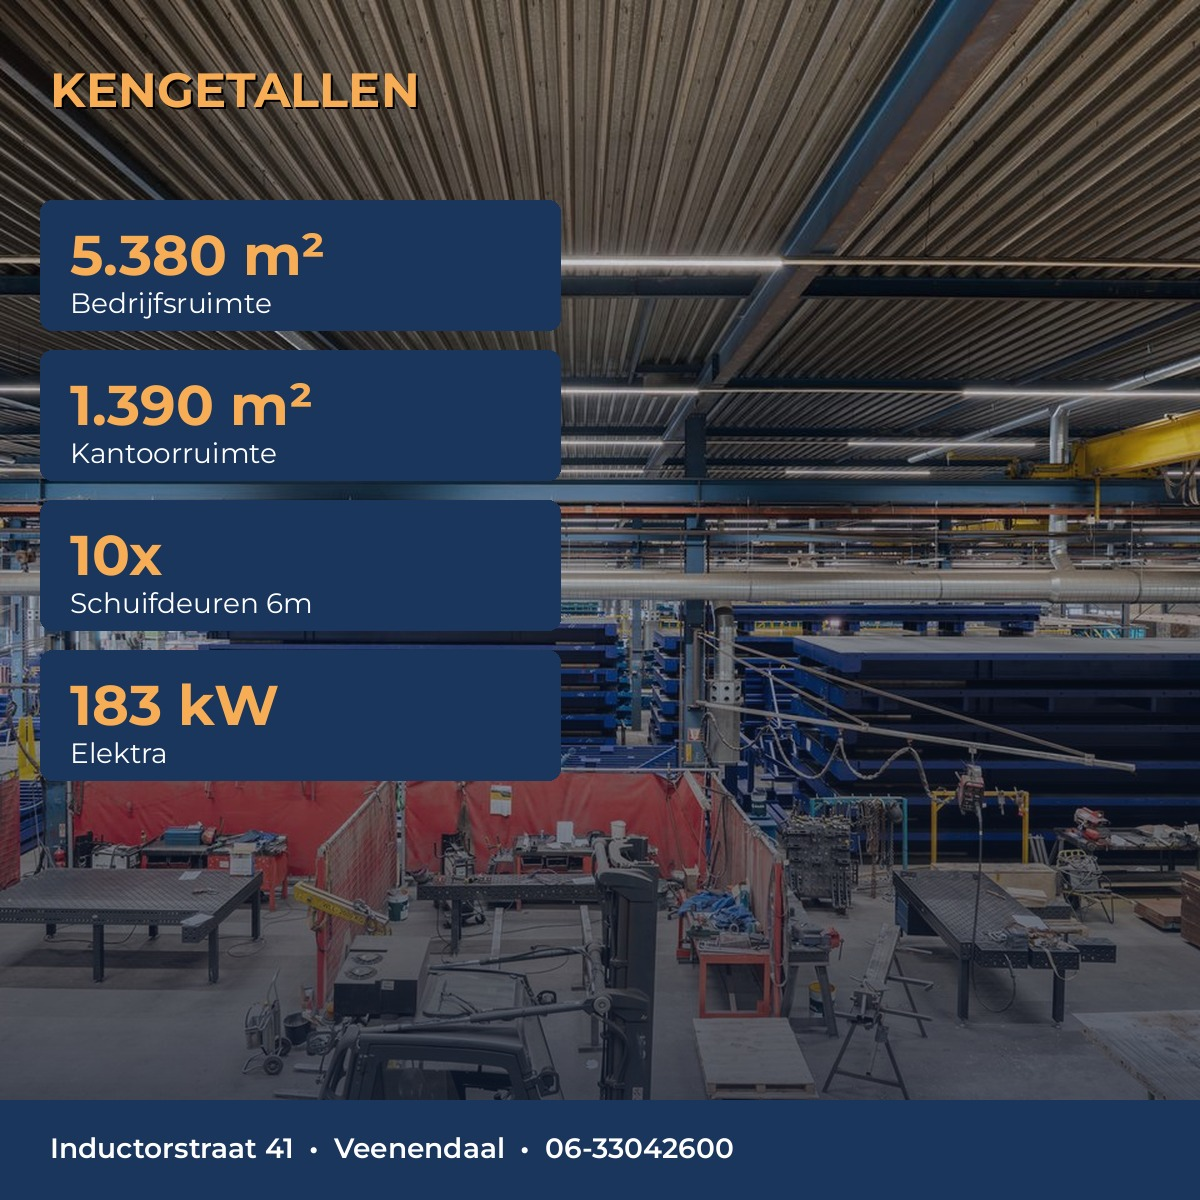
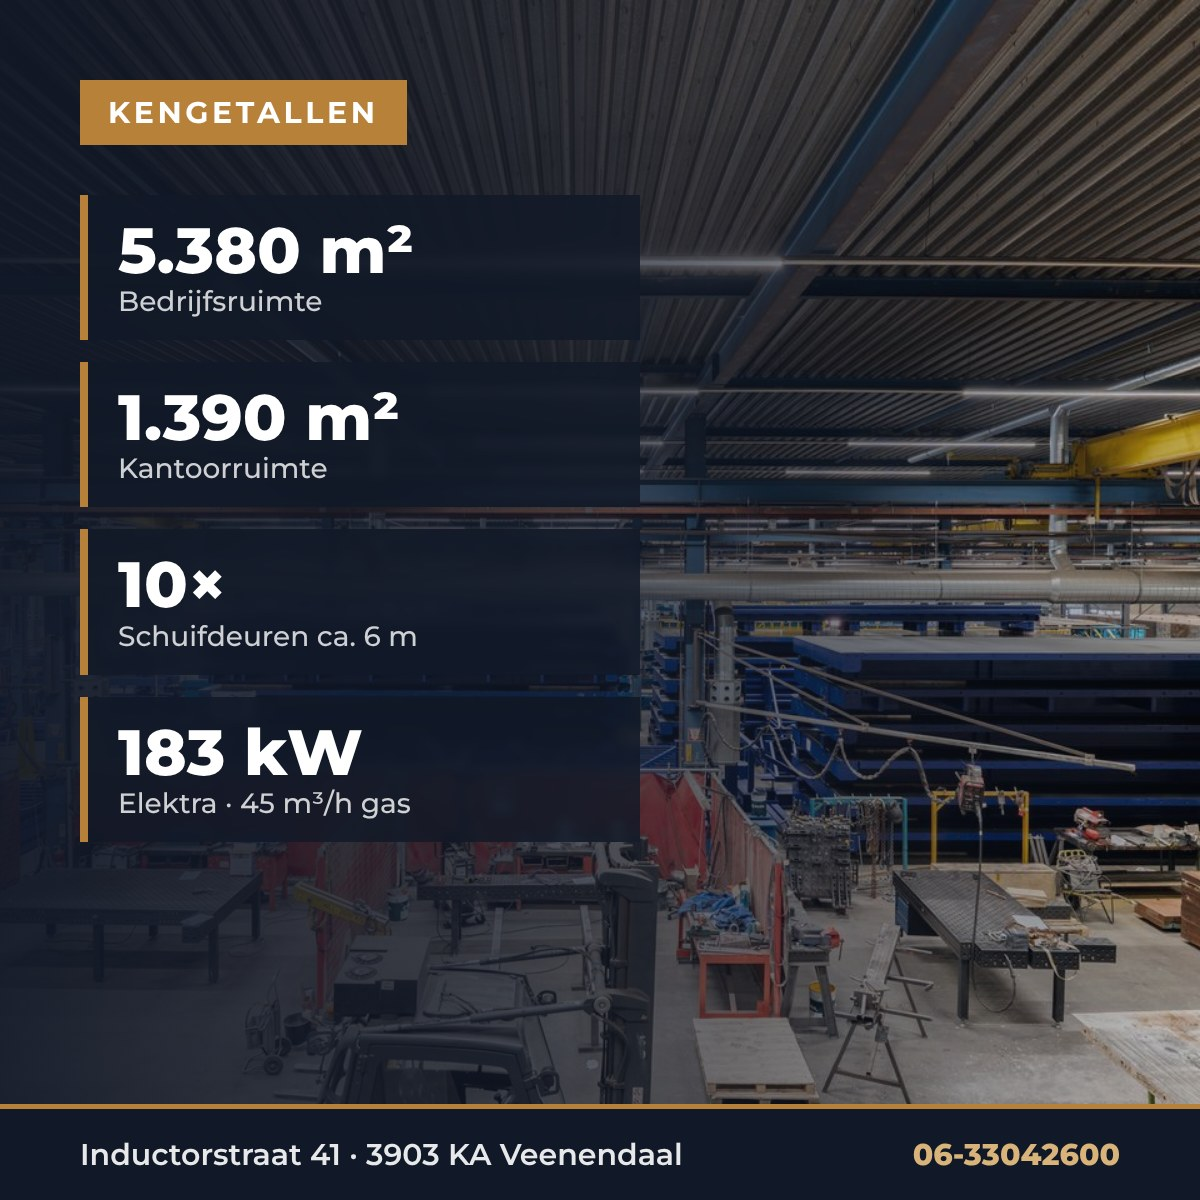
LinkedIn-designs in nieuwe huisstijl, lijn-iconen, video-download bovenaan LinkedIn-pagina, URL-hoofdletter hersteld
Claude-Session: https://claude.ai/code/session_01XDsUcyx6WeUYNECja3Ea1t

diff --git a/linkedin.html b/linkedin.html
@@ -27,6 +27,7 @@
     .back { color: rgba(255,255,255,0.85); font-size: 0.88rem; font-weight: 500; }
     .back:hover { color: var(--orange); }
 
+    .ico { flex-shrink: 0; }
     .btn { display: inline-flex; align-items: center; gap: 0.45rem; background: var(--orange); color: var(--on-accent); font-family: inherit; font-weight: 700; font-size: 0.85rem; padding: 0.55rem 1.1rem; border-radius: 6px; border: 2px solid var(--orange); cursor: pointer; transition: all 0.2s; }
     .btn:hover { background: var(--orange-dark); border-color: var(--orange-dark); }
     .btn-ghost { background: transparent; color: var(--navy); border-color: var(--line); }
@@ -41,6 +42,10 @@
     .hero .label { color: var(--orange); }
     .hero h1 { font-size: clamp(2rem, 4.5vw, 3rem); font-weight: 800; line-height: 1.15; letter-spacing: -0.02em; margin-bottom: 0.75rem; }
     .hero p { font-size: 1.05rem; opacity: 0.9; }
+    .hero-dl { display: flex; flex-wrap: wrap; gap: 0.75rem; margin-top: 1.75rem; }
+    .hero-dl .btn { font-size: 0.95rem; padding: 0.8rem 1.4rem; }
+    .btn-ghost-light { background: transparent; color: #fff; border-color: rgba(255,255,255,0.45); }
+    .btn-ghost-light:hover { background: #fff; color: var(--navy); border-color: #fff; }
     .toc { display: flex; flex-wrap: wrap; gap: 0.5rem; margin-top: 1.75rem; }
     .toc a { background: rgba(255,255,255,0.1); border: 1px solid rgba(255,255,255,0.25); color: #fff; padding: 0.4rem 0.9rem; border-radius: 999px; font-size: 0.82rem; font-weight: 600; }
     .toc a:hover { background: var(--orange); color: var(--on-accent); border-color: var(--orange); }
@@ -113,6 +118,10 @@
       <div class="label">LinkedIn promotie</div>
       <h1>Campagne Inductorstraat 41</h1>
       <p>Alles voor de LinkedIn-campagne op één plek: strategie, doelgroep, contentkalender, kant-en-klare posts met designs, de video en tips voor advertenties.</p>
+      <div class="hero-dl">
+        <a class="btn" href="video/promo.mp4" download="Inductorstraat_41_Veenendaal_promotievideo.mp4"><svg class="ico" width="20" height="20" viewBox="0 0 24 24" fill="none" stroke="currentColor" stroke-width="2" stroke-linecap="round" stroke-linejoin="round" aria-hidden="true"><rect x="3" y="3" width="18" height="18" rx="2"/><path d="M7 3v18M17 3v18M3 7.5h4M3 12h18M3 16.5h4M17 7.5h4M17 16.5h4"/></svg> Download de video (MP4)</a>
+        <button class="btn btn-ghost-light" type="button" onclick="document.getElementById('dl-all').click()"><svg class="ico" width="20" height="20" viewBox="0 0 24 24" fill="none" stroke="currentColor" stroke-width="2" stroke-linecap="round" stroke-linejoin="round" aria-hidden="true"><rect x="3" y="3" width="18" height="18" rx="2"/><circle cx="9" cy="9" r="2"/><path d="m21 15-3.09-3.09a2 2 0 0 0-2.82 0L6 21"/></svg> Download alle designs</button>
+      </div>
       <div class="toc">
         <a href="#strategie">Strategie</a>
         <a href="#doelgroep">Doelgroep</a>
@@ -200,7 +209,7 @@
         </video>
       </div>
       <div class="post-actions" style="margin-top: 1rem;">
-        <a class="btn" href="video/promo.mp4" download="Inductorstraat_41_Veenendaal_promotievideo.mp4">⬇ Download video (MP4, 5,4 MB)</a>
+        <a class="btn" href="video/promo.mp4" download="Inductorstraat_41_Veenendaal_promotievideo.mp4"><svg class="ico" width="18" height="18" viewBox="0 0 24 24" fill="none" stroke="currentColor" stroke-width="2" stroke-linecap="round" stroke-linejoin="round" aria-hidden="true"><path d="M21 15v4a2 2 0 0 1-2 2H5a2 2 0 0 1-2-2v-4"/><path d="m7 10 5 5 5-5"/><path d="M12 15V3"/></svg> Download video (MP4, 5,4 MB)</a>
       </div>
     </div>
   </section>
@@ -238,7 +247,7 @@
         <li>Gebruik de video in de eerste post: video’s presteren significant beter.</li>
         <li>Overweeg een “document post” met een korte PDF-factsheet, bijvoorbeeld de brochure.</li>
         <li>Herhaal de beste post na 10–14 dagen met iets aangepaste tekst.</li>
-        <li>Zet de websitelink in de eerste reactie: <strong>jeroen-o.github.io/inductorstraat-41</strong></li>
+        <li>Zet de websitelink in de eerste reactie: <strong>jeroen-o.github.io/Inductorstraat-41</strong></li>
       </ul>
     </div>
   </section>
@@ -249,11 +258,11 @@
       <div class="label">Downloads</div>
       <h2>Alle bestanden</h2>
       <div class="downloads">
-        <a class="btn btn-li" href="docs/LinkedIn_Campagne_Inductorstraat_41_Veenendaal.docx" download>⬇ Campagneplan (Word)</a>
-        <button class="btn" id="dl-all">⬇ Alle 6 designs</button>
-        <a class="btn btn-ghost" href="video/promo.mp4" download="Inductorstraat_41_Veenendaal_promotievideo.mp4">⬇ Video (MP4)</a>
-        <a class="btn btn-ghost" href="docs/brochure-inductorstraat-41.pdf" target="_blank" rel="noopener">⬇ Brochure (PDF)</a>
-        <button class="btn btn-ghost" id="copy-url">🔗 Kopieer websitelink</button>
+        <a class="btn btn-li" href="docs/LinkedIn_Campagne_Inductorstraat_41_Veenendaal.docx" download><svg class="ico" width="18" height="18" viewBox="0 0 24 24" fill="none" stroke="currentColor" stroke-width="2" stroke-linecap="round" stroke-linejoin="round" aria-hidden="true"><path d="M21 15v4a2 2 0 0 1-2 2H5a2 2 0 0 1-2-2v-4"/><path d="m7 10 5 5 5-5"/><path d="M12 15V3"/></svg> Campagneplan (Word)</a>
+        <button class="btn" id="dl-all"><svg class="ico" width="18" height="18" viewBox="0 0 24 24" fill="none" stroke="currentColor" stroke-width="2" stroke-linecap="round" stroke-linejoin="round" aria-hidden="true"><path d="M21 15v4a2 2 0 0 1-2 2H5a2 2 0 0 1-2-2v-4"/><path d="m7 10 5 5 5-5"/><path d="M12 15V3"/></svg> Alle 7 designs</button>
+        <a class="btn btn-ghost" href="video/promo.mp4" download="Inductorstraat_41_Veenendaal_promotievideo.mp4"><svg class="ico" width="18" height="18" viewBox="0 0 24 24" fill="none" stroke="currentColor" stroke-width="2" stroke-linecap="round" stroke-linejoin="round" aria-hidden="true"><path d="M21 15v4a2 2 0 0 1-2 2H5a2 2 0 0 1-2-2v-4"/><path d="m7 10 5 5 5-5"/><path d="M12 15V3"/></svg> Video (MP4)</a>
+        <a class="btn btn-ghost" href="docs/brochure-inductorstraat-41.pdf" target="_blank" rel="noopener"><svg class="ico" width="18" height="18" viewBox="0 0 24 24" fill="none" stroke="currentColor" stroke-width="2" stroke-linecap="round" stroke-linejoin="round" aria-hidden="true"><path d="M21 15v4a2 2 0 0 1-2 2H5a2 2 0 0 1-2-2v-4"/><path d="m7 10 5 5 5-5"/><path d="M12 15V3"/></svg> Brochure (PDF)</a>
+        <button class="btn btn-ghost" id="copy-url"><svg class="ico" width="18" height="18" viewBox="0 0 24 24" fill="none" stroke="currentColor" stroke-width="2" stroke-linecap="round" stroke-linejoin="round" aria-hidden="true"><path d="M10 13a5 5 0 0 0 7.54.54l3-3a5 5 0 0 0-7.07-7.07l-1.72 1.71"/><path d="M14 11a5 5 0 0 0-7.54-.54l-3 3a5 5 0 0 0 7.07 7.07l1.71-1.71"/></svg> Kopieer websitelink</button>
       </div>
     </div>
   </section>
@@ -265,7 +274,8 @@
   <div class="toast" id="toast">Gekopieerd</div>
 
   <script>
-    const SITE = 'https://jeroen-o.github.io/inductorstraat-41/';
+    const COPY_HTML = `<svg class="ico" width="18" height="18" viewBox="0 0 24 24" fill="none" stroke="currentColor" stroke-width="2" stroke-linecap="round" stroke-linejoin="round" aria-hidden="true"><rect x="8" y="8" width="14" height="14" rx="2"/><path d="M4 16c-1.1 0-2-.9-2-2V4c0-1.1.9-2 2-2h10c1.1 0 2 .9 2 2"/></svg> Kopieer tekst`;
+    const SITE = 'https://jeroen-o.github.io/Inductorstraat-41/';
     const POSTS = [
       { id: 'post1', title: 'Post 1 – Aankondiging', when: 'Week 1 – ma', img: 'post1_teaser',
         media: 'Upload de video mét voice-over en gebruik post1_teaser.jpg als thumbnail/cover.',
@@ -331,8 +341,8 @@ Perfecte combinatie van productie/opslag én een professionele uitstraling naar 
 Interesse? Neem contact op met Eric: 06-33042600
 
 #kantoorruimte #bedrijfspand #veenendaal #tehuur #representatief` },
-      { id: 'post6', title: 'Post 6 – Voorzieningen & budget', when: 'Week 3 – ma', img: 'post_extra_highlight', isNew: true,
-        media: 'Design post_extra_highlight.jpg (of een foto van de kantine, foto_26 / foto_27).',
+      { id: 'post6', title: 'Post 6 – Voorzieningen & budget', when: 'Week 3 – ma', img: 'post6_budget', isNew: true,
+        media: 'Design post6_budget.jpg (of een foto van de kantine, foto_26 / foto_27).',
         text: `Inductorstraat 41 in Veenendaal: klaar voor gebruik én aan te passen aan uw bedrijf.
 
 Aanwezig:
@@ -376,7 +386,7 @@ Eric: 06-33042600
         <div class="post-media">
           <img src="images/${p.img}.jpg" alt="Design ${p.title}" loading="lazy" />
           <div class="actions">
-            <a class="btn btn-ghost" href="images/${p.img}.jpg" download="${p.img}.jpg">⬇ Design (1200×1200)</a>
+            <a class="btn btn-ghost" href="images/${p.img}.jpg" download="${p.img}.jpg"><svg class="ico" width="18" height="18" viewBox="0 0 24 24" fill="none" stroke="currentColor" stroke-width="2" stroke-linecap="round" stroke-linejoin="round" aria-hidden="true"><path d="M21 15v4a2 2 0 0 1-2 2H5a2 2 0 0 1-2-2v-4"/><path d="m7 10 5 5 5-5"/><path d="M12 15V3"/></svg> Design (1200×1200)</a>
           </div>
         </div>
         <div>
@@ -389,7 +399,7 @@ Eric: 06-33042600
           ${p.text ? `
             <div class="post-text">${fmt(p.text)}</div>
             <div class="post-actions">
-              <button class="btn" data-copy="${p.id}">📋 Kopieer tekst</button>
+              <button class="btn" data-copy="${p.id}"><svg class="ico" width="18" height="18" viewBox="0 0 24 24" fill="none" stroke="currentColor" stroke-width="2" stroke-linecap="round" stroke-linejoin="round" aria-hidden="true"><rect x="8" y="8" width="14" height="14" rx="2"/><path d="M4 16c-1.1 0-2-.9-2-2V4c0-1.1.9-2 2-2h10c1.1 0 2 .9 2 2"/></svg> Kopieer tekst</button>
               <a class="btn btn-li" href="https://www.linkedin.com/feed/?shareActive=true" target="_blank" rel="noopener">Open LinkedIn</a>
               <span class="chars">${p.text.length.toLocaleString('nl-NL')} tekens</span>
             </div>` : ''}
@@ -409,7 +419,7 @@ Eric: 06-33042600
     list.addEventListener('click', async e => {
       const b = e.target.closest('[data-copy]'); if (!b) return;
       const p = POSTS.find(x => x.id === b.dataset.copy);
-      if (await copy(p.text)) { b.classList.add('done'); b.textContent = '✓ Gekopieerd'; notify('Posttekst gekopieerd'); setTimeout(() => { b.classList.remove('done'); b.textContent = '📋 Kopieer tekst'; }, 2000); }
+      if (await copy(p.text)) { b.classList.add('done'); b.innerHTML = '✓ Gekopieerd'; notify('Posttekst gekopieerd'); setTimeout(() => { b.classList.remove('done'); b.innerHTML = COPY_HTML; }, 2000); }
       else notify('Kopiëren mislukt – selecteer de tekst handmatig');
     });
     document.getElementById('copy-url').addEventListener('click', async () => { notify(await copy(SITE) ? 'Websitelink gekopieerd' : 'Kopiëren mislukt'); });

diff --git a/index.html b/index.html
@@ -8,8 +8,8 @@
   <meta property="og:type" content="website" />
   <meta property="og:title" content="Te huur: Inductorstraat 41, Veenendaal – 6.770 m² bedrijfsobject" />
   <meta property="og:description" content="Ca. 5.380 m² bedrijfsruimte + 1.390 m² kantoor op bedrijventerrein Het Ambacht/Nijverkamp. Milieucategorie 4.2. Budget beschikbaar voor aanpassingen." />
-  <meta property="og:image" content="https://jeroen-o.github.io/inductorstraat-41/images/post1_teaser.jpg" />
-  <meta property="og:url" content="https://jeroen-o.github.io/inductorstraat-41/" />
+  <meta property="og:image" content="https://jeroen-o.github.io/Inductorstraat-41/images/post1_teaser.jpg" />
+  <meta property="og:url" content="https://jeroen-o.github.io/Inductorstraat-41/" />
   <meta name="twitter:card" content="summary_large_image" />
   <link rel="preconnect" href="https://fonts.googleapis.com" />
   <link rel="preconnect" href="https://fonts.gstatic.com" crossorigin />
@@ -50,6 +50,7 @@
     nav a { color: rgba(255,255,255,0.9); font-size: 0.88rem; font-weight: 500; transition: color 0.2s; }
     nav a:hover { color: var(--orange); }
 
+    .ico { flex-shrink: 0; }
     .btn {
       display: inline-flex; align-items: center; gap: 0.5rem;
       background: var(--orange); color: var(--on-accent);
@@ -93,7 +94,7 @@
     .budget-banner { background: var(--orange); color: var(--on-accent); padding: 1.6rem 1.5rem; }
     .budget-banner .container { display: flex; align-items: center; gap: 1.25rem; flex-wrap: wrap; justify-content: space-between; }
     .budget-banner .bb-text { display: flex; gap: 1rem; align-items: center; flex: 1 1 480px; }
-    .budget-banner .bb-icon { font-size: 2rem; flex-shrink: 0; }
+    .budget-banner .bb-icon { flex-shrink: 0; display: flex; }
     .budget-banner h3 { font-size: 1.2rem; font-weight: 800; line-height: 1.25; }
     .budget-banner p { font-size: 0.95rem; font-weight: 500; }
 
@@ -307,7 +308,7 @@
   <div class="budget-banner">
     <div class="container">
       <div class="bb-text">
-        <div class="bb-icon">🛠</div>
+        <div class="bb-icon"><svg class="ico" width="40" height="40" viewBox="0 0 24 24" fill="none" stroke="currentColor" stroke-width="1.6" stroke-linecap="round" stroke-linejoin="round" aria-hidden="true"><path d="M14.7 6.3a1 1 0 0 0 0 1.4l1.6 1.6a1 1 0 0 0 1.4 0l3.77-3.77a6 6 0 0 1-7.94 7.94l-6.91 6.91a2.12 2.12 0 0 1-3-3l6.91-6.91a6 6 0 0 1 7.94-7.94l-3.76 3.76z"/></svg></div>
         <div>
           <h3>Budget beschikbaar voor aanpassingen</h3>
           <p>Verhuurder stelt budget beschikbaar om het pand af te stemmen op uw bedrijfsvoering. Omvang en invulling in overleg.</p>
@@ -335,32 +336,32 @@
 
       <div class="features">
         <div class="feature-card">
-          <div class="icon">🏭</div>
+          <div class="icon"><svg class="ico" width="24" height="24" viewBox="0 0 24 24" fill="none" stroke="currentColor" stroke-width="1.8" stroke-linecap="round" stroke-linejoin="round" aria-hidden="true"><path d="M2 20a2 2 0 0 0 2 2h16a2 2 0 0 0 2-2V8l-7 5V8l-7 5V4a2 2 0 0 0-2-2H4a2 2 0 0 0-2 2Z"/><path d="M17 18h1"/><path d="M12 18h1"/><path d="M7 18h1"/></svg></div>
           <h3>Royale bedrijfshal</h3>
           <p>Ca. 5.380 m², ca. 70,5 × 85,3 m in vijf beuken van 15 m, hoogte 7,5 m. Kraanbaan in overleg.</p>
         </div>
         <div class="feature-card">
-          <div class="icon">🏢</div>
+          <div class="icon"><svg class="ico" width="24" height="24" viewBox="0 0 24 24" fill="none" stroke="currentColor" stroke-width="1.8" stroke-linecap="round" stroke-linejoin="round" aria-hidden="true"><rect x="4" y="2" width="16" height="20" rx="2"/><path d="M9 22v-4h6v4"/><path d="M8 6h.01M12 6h.01M16 6h.01M8 10h.01M12 10h.01M16 10h.01M8 14h.01M12 14h.01M16 14h.01"/></svg></div>
           <h3>Representatieve kantoren</h3>
           <p>Ca. 1.390 m² over begane grond en 1e verdieping, met airco, LED en te openen ramen.</p>
         </div>
         <div class="feature-card">
-          <div class="icon">⚡</div>
+          <div class="icon"><svg class="ico" width="24" height="24" viewBox="0 0 24 24" fill="none" stroke="currentColor" stroke-width="1.8" stroke-linecap="round" stroke-linejoin="round" aria-hidden="true"><path d="M4 14a1 1 0 0 1-.78-1.63l9.9-10.2a.5.5 0 0 1 .86.46l-1.92 6.02A1 1 0 0 0 13 10h7a1 1 0 0 1 .78 1.63l-9.9 10.2a.5.5 0 0 1-.86-.46l1.92-6.02A1 1 0 0 0 11 14z"/></svg></div>
           <h3>Zware aansluitingen</h3>
           <p>183 kW gecontracteerd transportvermogen elektra en 45 m³/h gas. Technische ruimte met compressoren.</p>
         </div>
         <div class="feature-card">
-          <div class="icon">🚛</div>
+          <div class="icon"><svg class="ico" width="24" height="24" viewBox="0 0 24 24" fill="none" stroke="currentColor" stroke-width="1.8" stroke-linecap="round" stroke-linejoin="round" aria-hidden="true"><path d="M14 18V6a2 2 0 0 0-2-2H4a2 2 0 0 0-2 2v11a1 1 0 0 0 1 1h2"/><path d="M15 18H9"/><path d="M19 18h2a1 1 0 0 0 1-1v-3.65a1 1 0 0 0-.22-.62l-3.48-4.35A1 1 0 0 0 17.52 8H14"/><circle cx="17" cy="18" r="2"/><circle cx="7" cy="18" r="2"/></svg></div>
           <h3>Logistiek sterk</h3>
           <p>Direct aan de Rondweg-Oost (N233), snel op A12 en A15. Voldoende parkeren op eigen terrein.</p>
         </div>
         <div class="feature-card highlight">
-          <div class="icon">🛠</div>
+          <div class="icon"><svg class="ico" width="24" height="24" viewBox="0 0 24 24" fill="none" stroke="currentColor" stroke-width="1.8" stroke-linecap="round" stroke-linejoin="round" aria-hidden="true"><path d="M14.7 6.3a1 1 0 0 0 0 1.4l1.6 1.6a1 1 0 0 0 1.4 0l3.77-3.77a6 6 0 0 1-7.94 7.94l-6.91 6.91a2.12 2.12 0 0 1-3-3l6.91-6.91a6 6 0 0 1 7.94-7.94l-3.76 3.76z"/></svg></div>
           <h3>Budget voor aanpassingen</h3>
           <p>Er is budget beschikbaar om het pand aan te passen aan uw wensen. In overleg met verhuurder.</p>
         </div>
         <div class="feature-card">
-          <div class="icon">⚙</div>
+          <div class="icon"><svg class="ico" width="24" height="24" viewBox="0 0 24 24" fill="none" stroke="currentColor" stroke-width="1.8" stroke-linecap="round" stroke-linejoin="round" aria-hidden="true"><path d="M20 13c0 5-3.5 7.5-7.66 8.95a1 1 0 0 1-.67-.01C7.5 20.5 4 18 4 13V6a1 1 0 0 1 1-1c2 0 4.5-1.2 6.24-2.72a1.17 1.17 0 0 1 1.52 0C14.51 3.81 17 5 19 5a1 1 0 0 1 1 1z"/><path d="m9 12 2 2 4-4"/></svg></div>
           <h3>Milieucategorie 4.2</h3>
           <p>Bestemmingsplan Het Ambacht staat bedrijvigheid toe tot en met milieucategorie 4.2.</p>
         </div>
@@ -519,7 +520,7 @@
         </div>
       </div>
       <div class="downloads">
-        <a class="btn btn-navy" href="docs/brochure-inductorstraat-41.pdf" target="_blank" rel="noopener">⬇ Download brochure (PDF, 8 MB)</a>
+        <a class="btn btn-navy" href="docs/brochure-inductorstraat-41.pdf" target="_blank" rel="noopener"><svg class="ico" width="18" height="18" viewBox="0 0 24 24" fill="none" stroke="currentColor" stroke-width="2" stroke-linecap="round" stroke-linejoin="round" aria-hidden="true"><path d="M21 15v4a2 2 0 0 1-2 2H5a2 2 0 0 1-2-2v-4"/><path d="m7 10 5 5 5-5"/><path d="M12 15V3"/></svg> Download brochure (PDF, 8 MB)</a>
       </div>
     </div>
   </section>
@@ -538,7 +539,7 @@
             <li><span class="check">✓</span><span>Snelle verbinding naar NS-station Veenendaal-De Klomp</span></li>
             <li><span class="check">✓</span><span>Centraal in Foodvalley en Midden-Nederland</span></li>
           </ul>
-          <a class="btn btn-navy" href="https://www.google.com/maps/place/Het+Ambacht,+Inductorstraat+41,+3903+KA+Veenendaal/" target="_blank" rel="noopener">📍 Open in Google Maps</a>
+          <a class="btn btn-navy" href="https://www.google.com/maps/place/Het+Ambacht,+Inductorstraat+41,+3903+KA+Veenendaal/" target="_blank" rel="noopener"><svg class="ico" width="18" height="18" viewBox="0 0 24 24" fill="none" stroke="currentColor" stroke-width="2" stroke-linecap="round" stroke-linejoin="round" aria-hidden="true"><path d="M20 10c0 5-5.54 10.19-7.4 11.8a1 1 0 0 1-1.2 0C9.54 20.19 4 15 4 10a8 8 0 0 1 16 0"/><circle cx="12" cy="10" r="3"/></svg> Open in Google Maps</a>
         </div>
         <div class="maps">
           <img src="images/kaart_regio.jpg" alt="Kaart regio Veenendaal met A12" loading="lazy" onclick="openSingle(this.src, this.alt)" />

diff --git a/doelgroepen.html b/doelgroepen.html
@@ -6,7 +6,7 @@
   <title>Geschikt voor | Inductorstraat 41, 3903 KA Veenendaal</title>
   <meta name="description" content="Voor welke bedrijven is Inductorstraat 41 in Veenendaal geschikt? Metaal & machinebouw, maakindustrie, bouw & installatie, groothandel, food-technologie en meer. 5.380 m² hal met kraanbanen + 1.390 m² kantoor, milieucategorie 4.2." />
   <meta property="og:title" content="Inductorstraat 41 Veenendaal – geschikt voor productie, metaal, bouw & groothandel" />
-  <meta property="og:image" content="https://jeroen-o.github.io/inductorstraat-41/images/post_extra_highlight.jpg" />
+  <meta property="og:image" content="https://jeroen-o.github.io/Inductorstraat-41/images/post_extra_highlight.jpg" />
   <link rel="preconnect" href="https://fonts.googleapis.com" />
   <link rel="preconnect" href="https://fonts.gstatic.com" crossorigin />
   <link href="https://fonts.googleapis.com/css2?family=Montserrat:wght@400;500;600;700;800&display=swap" rel="stylesheet" />
